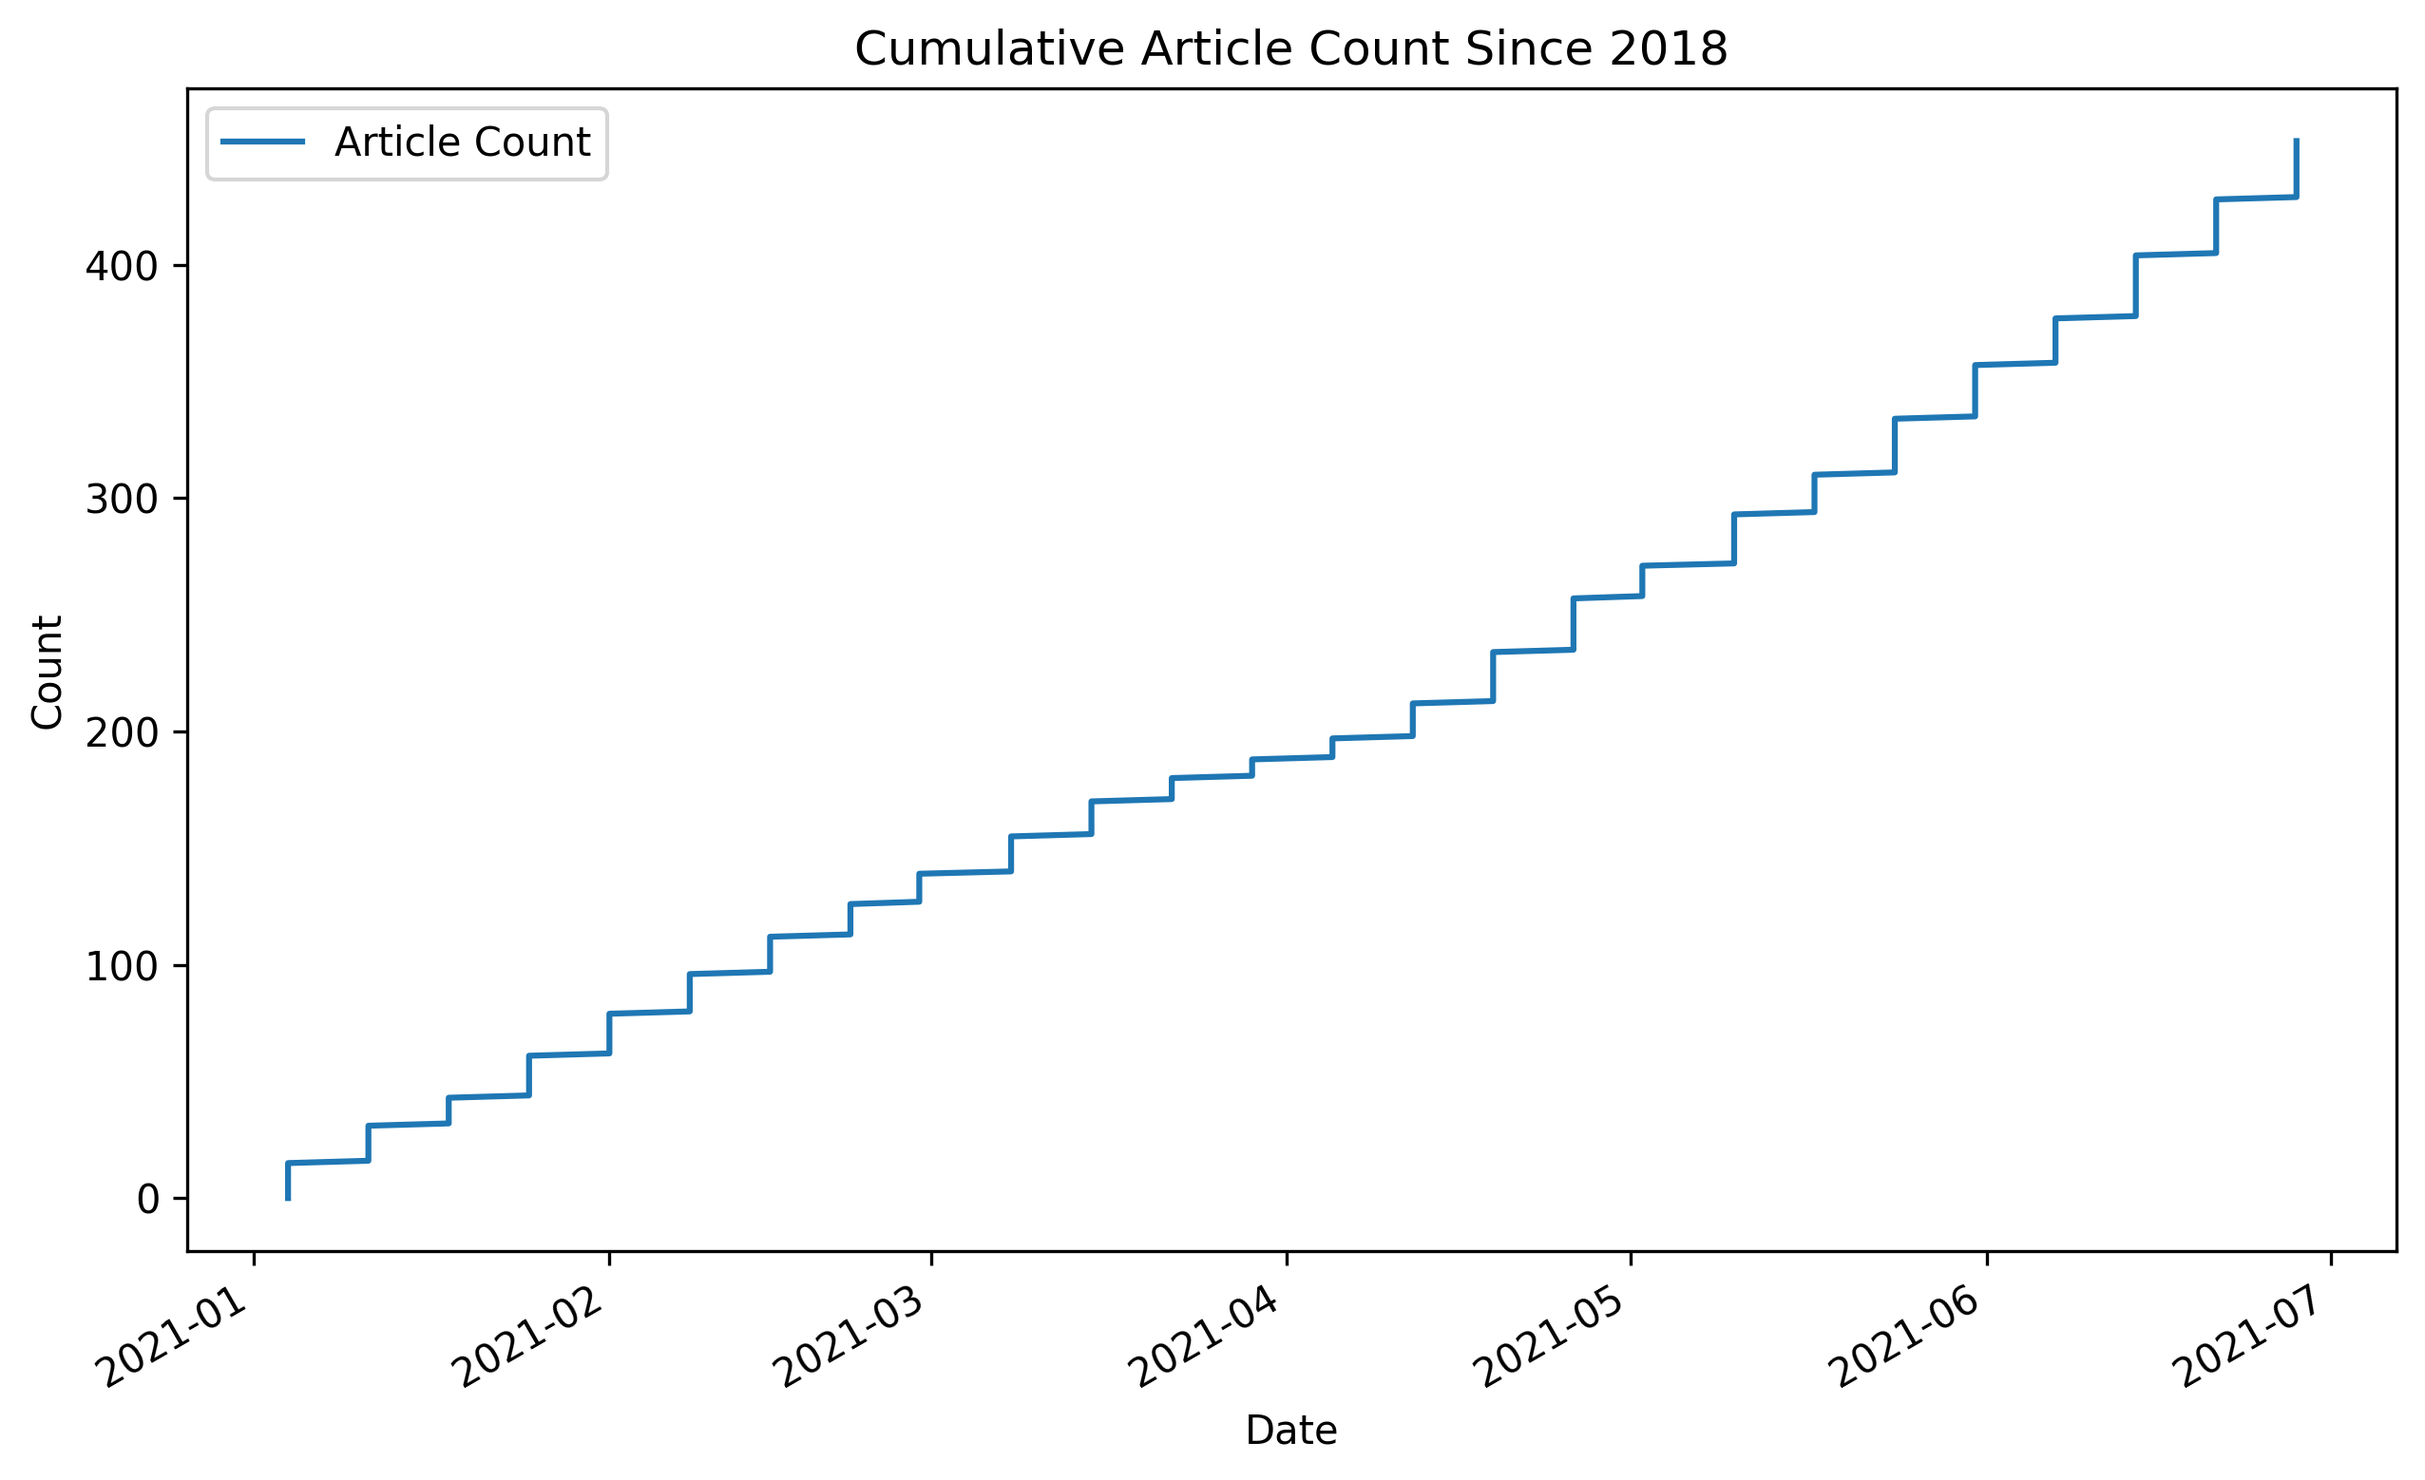
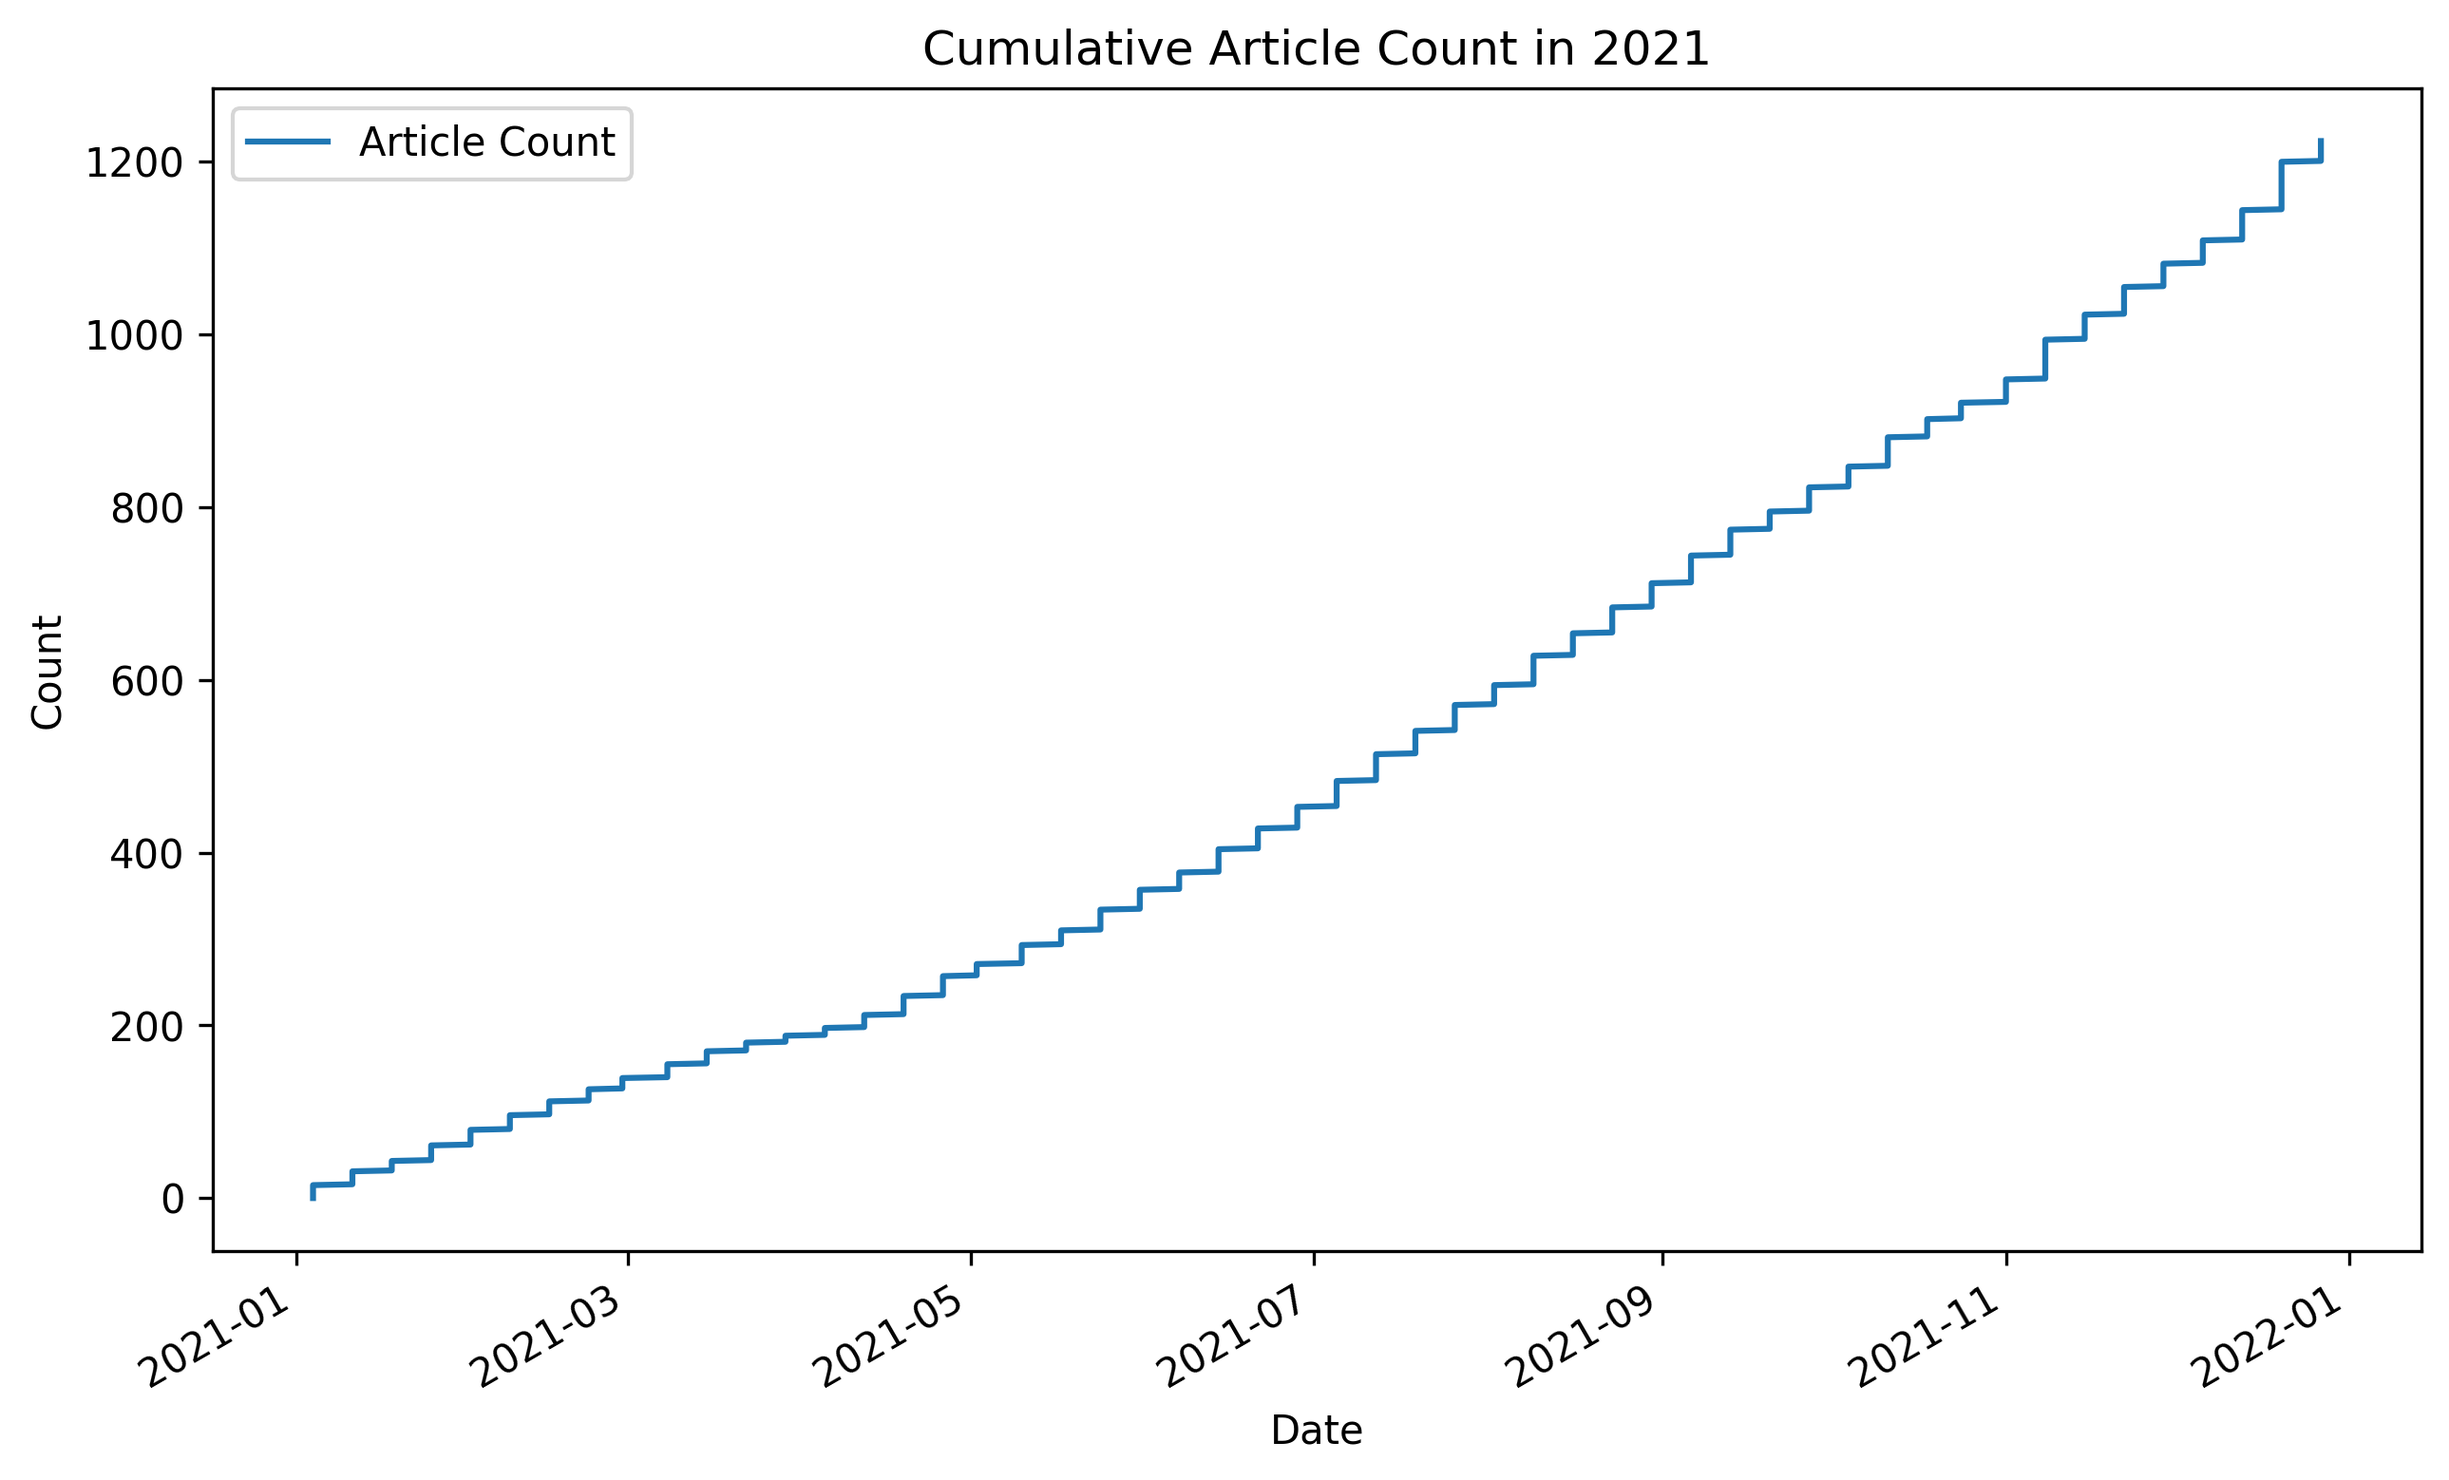
Adding new images

diff --git a/_posts/overviews/2021-12-31-2021-ai-news.md b/_posts/overviews/2021-12-31-2021-ai-news.md
@@ -12,14 +12,14 @@ sidebartoc: true
 ---
 ## Overview
 
-With 2021 over, we'd like to reflect on what's happened in AI during a year that began in the midst of the pandemic. Above is a wordcloud of the most common words used in titles of articles we've curated in our ['Last Week in AI' newsletter](https://lastweekin.ai/) over this past year. This reflects just about 500 articles that we've included in the newsletter in 2021 so far:
+With 2021 over, we'd like to reflect on what's happened in AI during a year that began in the midst of the pandemic, and ended still in the midst of the pandemic. Above is a wordcloud of the most common words used in titles of articles we've curated in our ['Last Week in AI' newsletter](https://lastweekin.ai/) over this past year. This reflects about 1250 articles that we've included in the newsletter in 2021:
 
 <figure>
  <img class="postimage_50" src="{{ site.imgpath }}/overviews/2021-12-31-2021-ai-news/counts.png"/>
  <figcaption> Counts of terms in articles vs time</figcaption>
 </figure>
 
-Digging a bit deeper, we find that COVID 19 is no longer at the forefront of the news, with facial recognition, bias, and deepfakes being covered most:
+Digging a bit deeper, we can see the most popular topics covered in these news articles, split into two plots for clarity:
 
 <figure>
  <img class="postimage_75" src="{{ site.imgpath }}/overviews/2021-12-31-2021-ai-news/topics.png"/>
@@ -37,7 +37,6 @@ But enough overview -- let's go through the most significant articles we've cura
 
 As in with our newsletter, these articles will be about Advances & Business, Concerns & Hype, Analysis & Policy, and in some cases Expert Opinions & Discussion within the field. 
 They will be presented in chronological order, and represent a curated selection that we believe are particularly noteworthy. 
-Click on the name of the month for the full newsletter release that started out that month.
 
 ## January 
 
@@ -185,6 +184,7 @@ Also as a sign of things to come, June also saw King County banning government u
 **Newsletter links**: [Week 1](https://lastweekin.ai/p/127) | [Week 2](https://lastweekin.ai/p/128) | [Week 3](https://lastweekin.ai/p/129) | [Week 4](https://lastweekin.ai/p/130) | [Week 5](https://lastweekin.ai/p/131) <br>
 **Highlights**:
 * [China built the world's largest facial recognition system. Now, it's getting camera-shy.](https://www.washingtonpost.com/world/facial-recognition-china-tech-data/2021/07/30/404c2e96-f049-11eb-81b2-9b7061a582d8_story.html)
+* [100+ Standford Researchers Publish 200+ Page Paper on the AI Paradigm Shift Introduced by Large-Scale Models](https://syncedreview.com/2021/08/19/deepmind-podracer-tpu-based-rl-frameworks-deliver-exceptional-performance-at-low-cost-86/)
 * [NSF partnerships expand National AI Research Institutes to 40 states](https://www.nsf.gov/news/news_summ.jsp?cntn_id=303176)
 * [A new generation of AI-powered robots is taking over warehouses](https://www.technologyreview.com/2021/08/06/1030802/ai-robots-take-over-warehouses/)
 * [The slow collapse of Amazon's drone delivery dream](https://www.wired.co.uk/article/amazon-drone-delivery-prime-air)
@@ -193,7 +193,7 @@ Also as a sign of things to come, June also saw King County banning government u
 * [Elon Musk unveils 'Tesla bot,' a humanoid robot that would be made from Tesla's self-driving AI](https://www.businessinsider.com/elon-musk-unveils-tesla-bot-humanoid-robot-based-off-autopilot-2021-8)
 * [“Flying in the Dark”: Hospital AI Tools Aren’t Well Documented](https://hai.stanford.edu/news/flying-dark-hospital-ai-tools-arent-well-documented)
     
-**Our Summary**: [100+ Standford Researchers Publish 200+ Page Paper on the AI Paradigm Shift Introduced by Large-Scale Models](https://syncedreview.com/2021/08/19/deepmind-podracer-tpu-based-rl-frameworks-deliver-exceptional-performance-at-low-cost-86/) | In August, a team of 100+ Stanford researchers published a 200+ pages paper [On the Opportunities and Risks of Foundation Models](https://fsi.stanford.edu/publication/opportunities-and-risks-foundation-models). Foundation models refer to large, pre-trained models, like GPT-3, that can be transferred to downstream tasks that don’t have a lot of data. While the name of “foundation” and how the paper was released stirred up some controversy, it is undeniable that large pre-trained models will continue to play a large role in AI moving forward, and the paper gives many insights on their capabilities and limitations.
+**Our Summary**: In August, a team of 100+ Stanford researchers published a 200+ pages paper [On the Opportunities and Risks of Foundation Models](https://fsi.stanford.edu/publication/opportunities-and-risks-foundation-models). Foundation models refer to large, pre-trained models, like GPT-3, that can be transferred to downstream tasks that don’t have a lot of data. While the name of “foundation” and how the paper was released stirred up some controversy, it is undeniable that large pre-trained models will continue to play a large role in AI moving forward, and the paper gives many insights on their capabilities and limitations.
 
 ## September
 
@@ -205,6 +205,7 @@ Also as a sign of things to come, June also saw King County banning government u
 **Newsletter links**: [Week 1](https://lastweekin.ai/p/132) | [Week 2](https://lastweekin.ai/p/133) | [Week 3](https://lastweekin.ai/p/134) | [Week 4](https://lastweekin.ai/p/135) <br>
 **Highlights**:
 * [The Fight to Define When AI Is ‘High Risk’](https://www.wired.com/story/fight-to-define-when-ai-is-high-risk/)
+* [Only Humans, Not AI Machines, Can Get a U.S. Patent, Judge Rules](https://www.bloomberg.com/news/articles/2021-09-03/only-humans-not-ai-machines-can-get-a-u-s-patent-judge-rules)
 * [Project Maven: Amazon And Microsoft Scored $50 Million In Pentagon Surveillance Contracts After Google Quit](https://www.forbes.com/sites/thomasbrewster/2021/09/08/project-maven-amazon-and-microsoft-get-50-million-in-pentagon-drone-surveillance-contracts-after-google/)
 * [In the US, the AI Industry Risks Becoming Winner-Take-Most](https://www.wired.com/story/us-ai-industry-risks-becoming-winner-take-most/)
 * [How AI's full power can accelerate the fight against climate change](https://www.weforum.org/agenda/2021/09/time-to-utilise-the-full-power-of-ai-to-accelerate-our-fight-against-climate-change-301cb3f9d4/)
@@ -213,7 +214,7 @@ Also as a sign of things to come, June also saw King County banning government u
 * [First AI Pathology Program Approved: Helps Detect Prostate Cancer](https://www.mlo-online.com/diagnostics/pathology/article/21239541/fda-authorizes-software-that-can-help-identify-prostate-cancer)
 * [UK announces a national strategy to ‘level up’ AI](https://techcrunch.com/2021/09/22/uk-announces-a-national-strategy-to-level-up-ai/)
     
-**Our Summary**: [Only Humans, Not AI Machines, Can Get a U.S. Patent, Judge Rules](https://www.bloomberg.com/news/articles/2021-09-03/only-humans-not-ai-machines-can-get-a-u-s-patent-judge-rules) | In September, a U.S. federal had ruled that under current U.S. law, only people can be listed as inventors of patents, not AI algorithms. Supporters of this ruling cite the concern of AI-powered patent trolls, which may use AI to “generate” countless patents in the hope of benefiting from potential patent infringement lawsuits. Critics of this ruling say that AI-authored patents can incentivize the development of such AIs. Regardless, the U.S. can still allow AI-authored patents, but it will need new laws from Congress. 
+**Our Summary**: In September, a U.S. federal had ruled that under current U.S. law, only people can be listed as inventors of patents, not AI algorithms. Supporters of this ruling cite the concern of AI-powered patent trolls, which may use AI to “generate” countless patents in the hope of benefiting from potential patent infringement lawsuits. Critics of this ruling say that AI-authored patents can incentivize the development of such AIs. Regardless, the U.S. can still allow AI-authored patents, but it will need new laws from Congress. 
 
 ## October
 
@@ -225,6 +226,7 @@ Also as a sign of things to come, June also saw King County banning government u
 **Newsletter links**: [Week 1](https://lastweekin.ai/p/136) | [Week 2](https://lastweekin.ai/p/137) | [Week 3](https://lastweekin.ai/p/138) | [Week 4](https://lastweekin.ai/p/139) <br>
 **Highlights**:
 * [DeepMind’s AI predicts almost exactly when and where it’s going to rain](https://www.technologyreview.com/2021/09/29/1036331/deepminds-ai-predicts-almost-exactly-when-and-where-its-going-to-rain/)
+* [Only Humans, Not AI Machines, Can Get a U.S. Patent, Judge Rules](https://www.bloomberg.com/news/articles/2021-09-03/only-humans-not-ai-machines-can-get-a-u-s-patent-judge-rules)
 * [Are AI ethics teams doomed to be a facade? The women who pioneered them weigh in](https://venturebeat.com/2021/09/30/are-ai-ethics-teams-doomed-to-be-a-facade-the-women-who-pioneered-them-weigh-in/)
 * [Chinese AI gets ethical guidelines for the first time, aligning with Beijing’s goal of reining in Big Tech](https://www.scmp.com/tech/big-tech/article/3150789/chinese-ai-gets-ethical-guidelines-first-time-aligning-beijings-goal)
 * [Clearview AI Has New Tools to Identify You in Photos](https://www.wired.com/story/clearview-ai-new-tools-identify-you-photos/)
@@ -235,7 +237,7 @@ Also as a sign of things to come, June also saw King County banning government u
 * [Schools warned over facial recognition systems](https://www.bbc.com/news/technology-58969136)
 * [Google's AI researchers say their output is being slowed by lawyers after a string of high-level exits: 'Getting published really is a nightmare right now.'](https://www.businessinsider.com/google-ethical-ai-timnit-gebru-2021-10)
     
-**Our Summary**: [Only Humans, Not AI Machines, Can Get a U.S. Patent, Judge Rules](https://www.bloomberg.com/news/articles/2021-09-03/only-humans-not-ai-machines-can-get-a-u-s-patent-judge-rules) | In September, a U.S. federal had ruled that under current U.S. law, only people can be listed as inventors of patents, not AI algorithms. Supporters of this ruling cite the concern of AI-powered patent trolls, which may use AI to “generate” countless patents in the hope of benefiting from potential patent infringement lawsuits. Critics of this ruling say that AI-authored patents can incentivize the development of such AIs. Regardless, the U.S. can still allow AI-authored patents, but it will need new laws from Congress. 
+**Our Summary**: In September, a U.S. federal had ruled that under current U.S. law, only people can be listed as inventors of patents, not AI algorithms. Supporters of this ruling cite the concern of AI-powered patent trolls, which may use AI to “generate” countless patents in the hope of benefiting from potential patent infringement lawsuits. Critics of this ruling say that AI-authored patents can incentivize the development of such AIs. Regardless, the U.S. can still allow AI-authored patents, but it will need new laws from Congress. 
 
 ## [November](https://lastweekin.ai/p/140)
 
